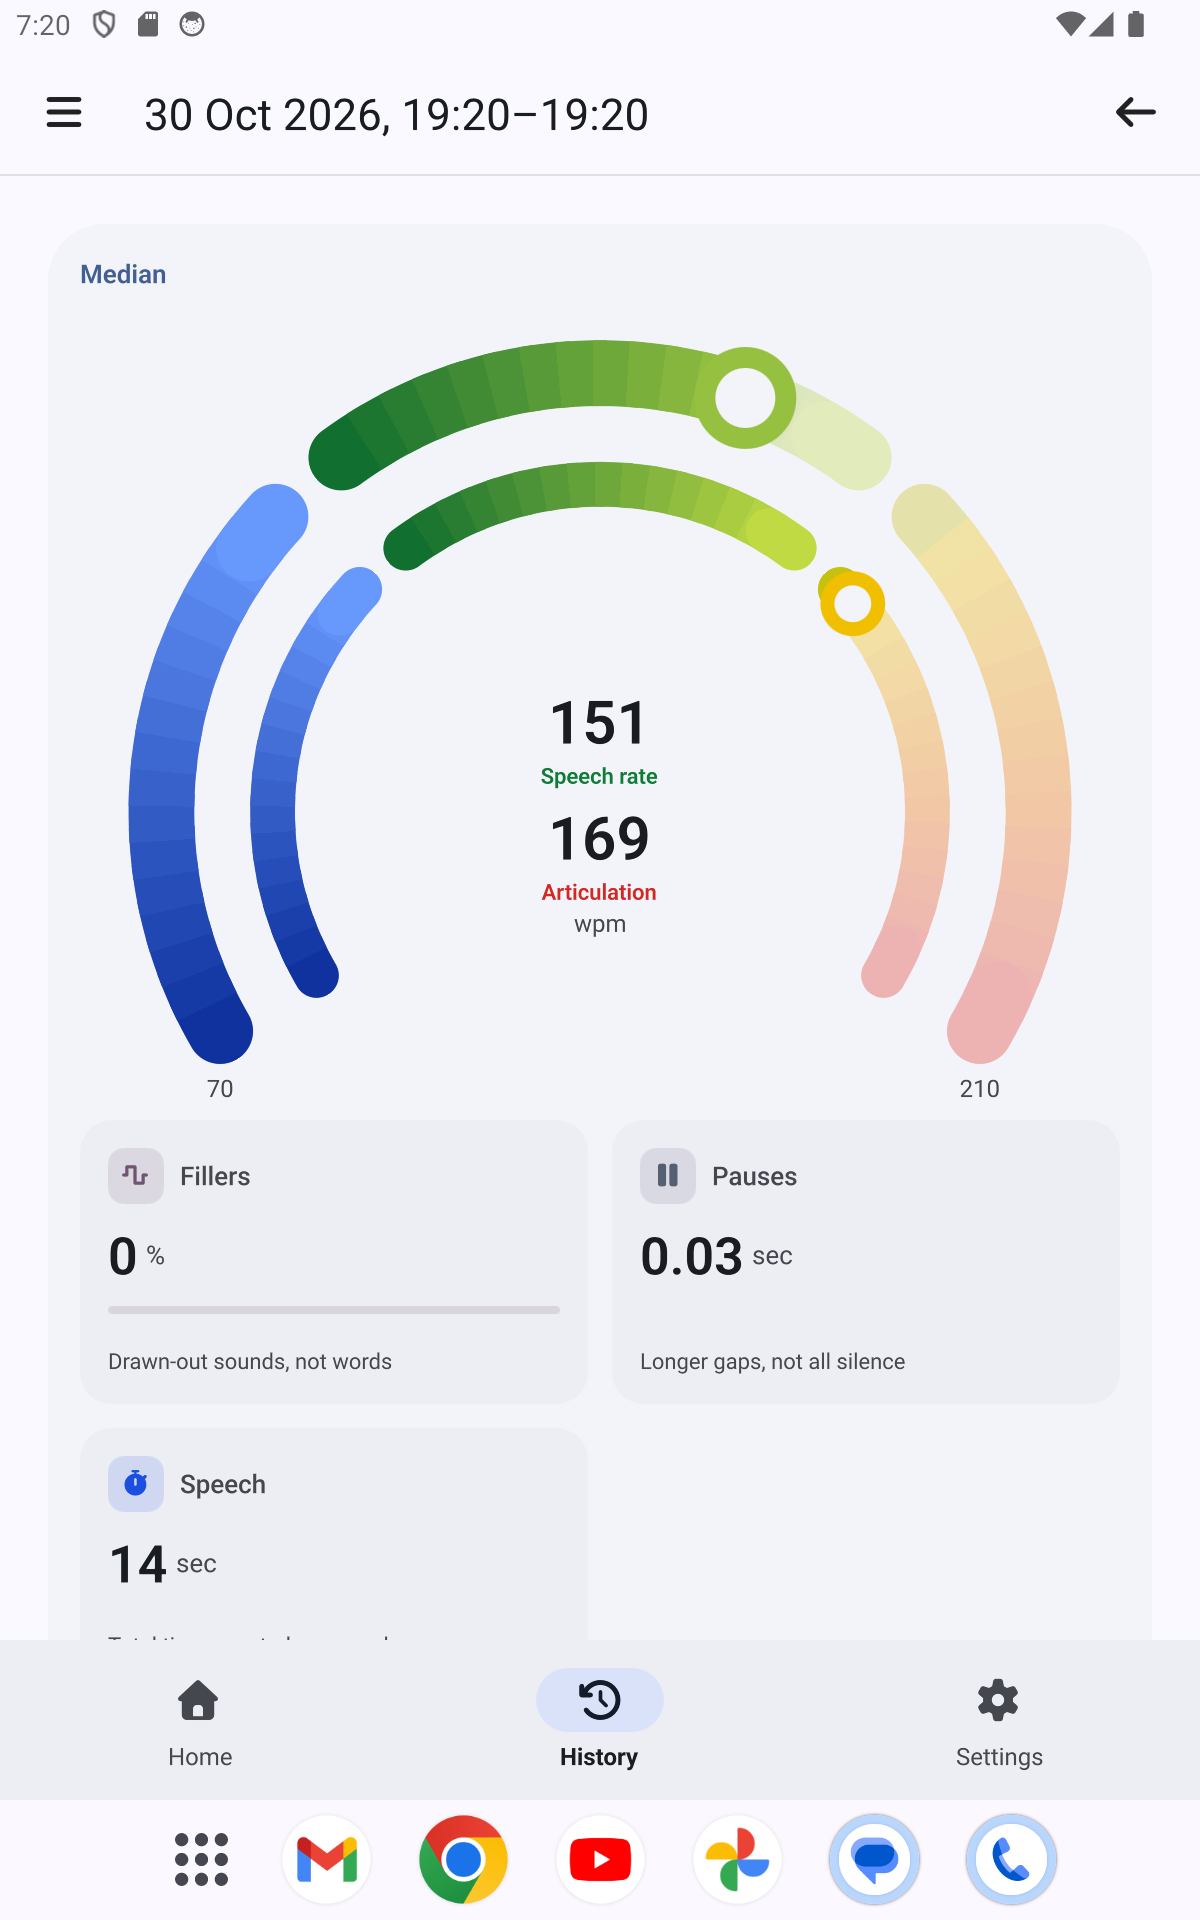
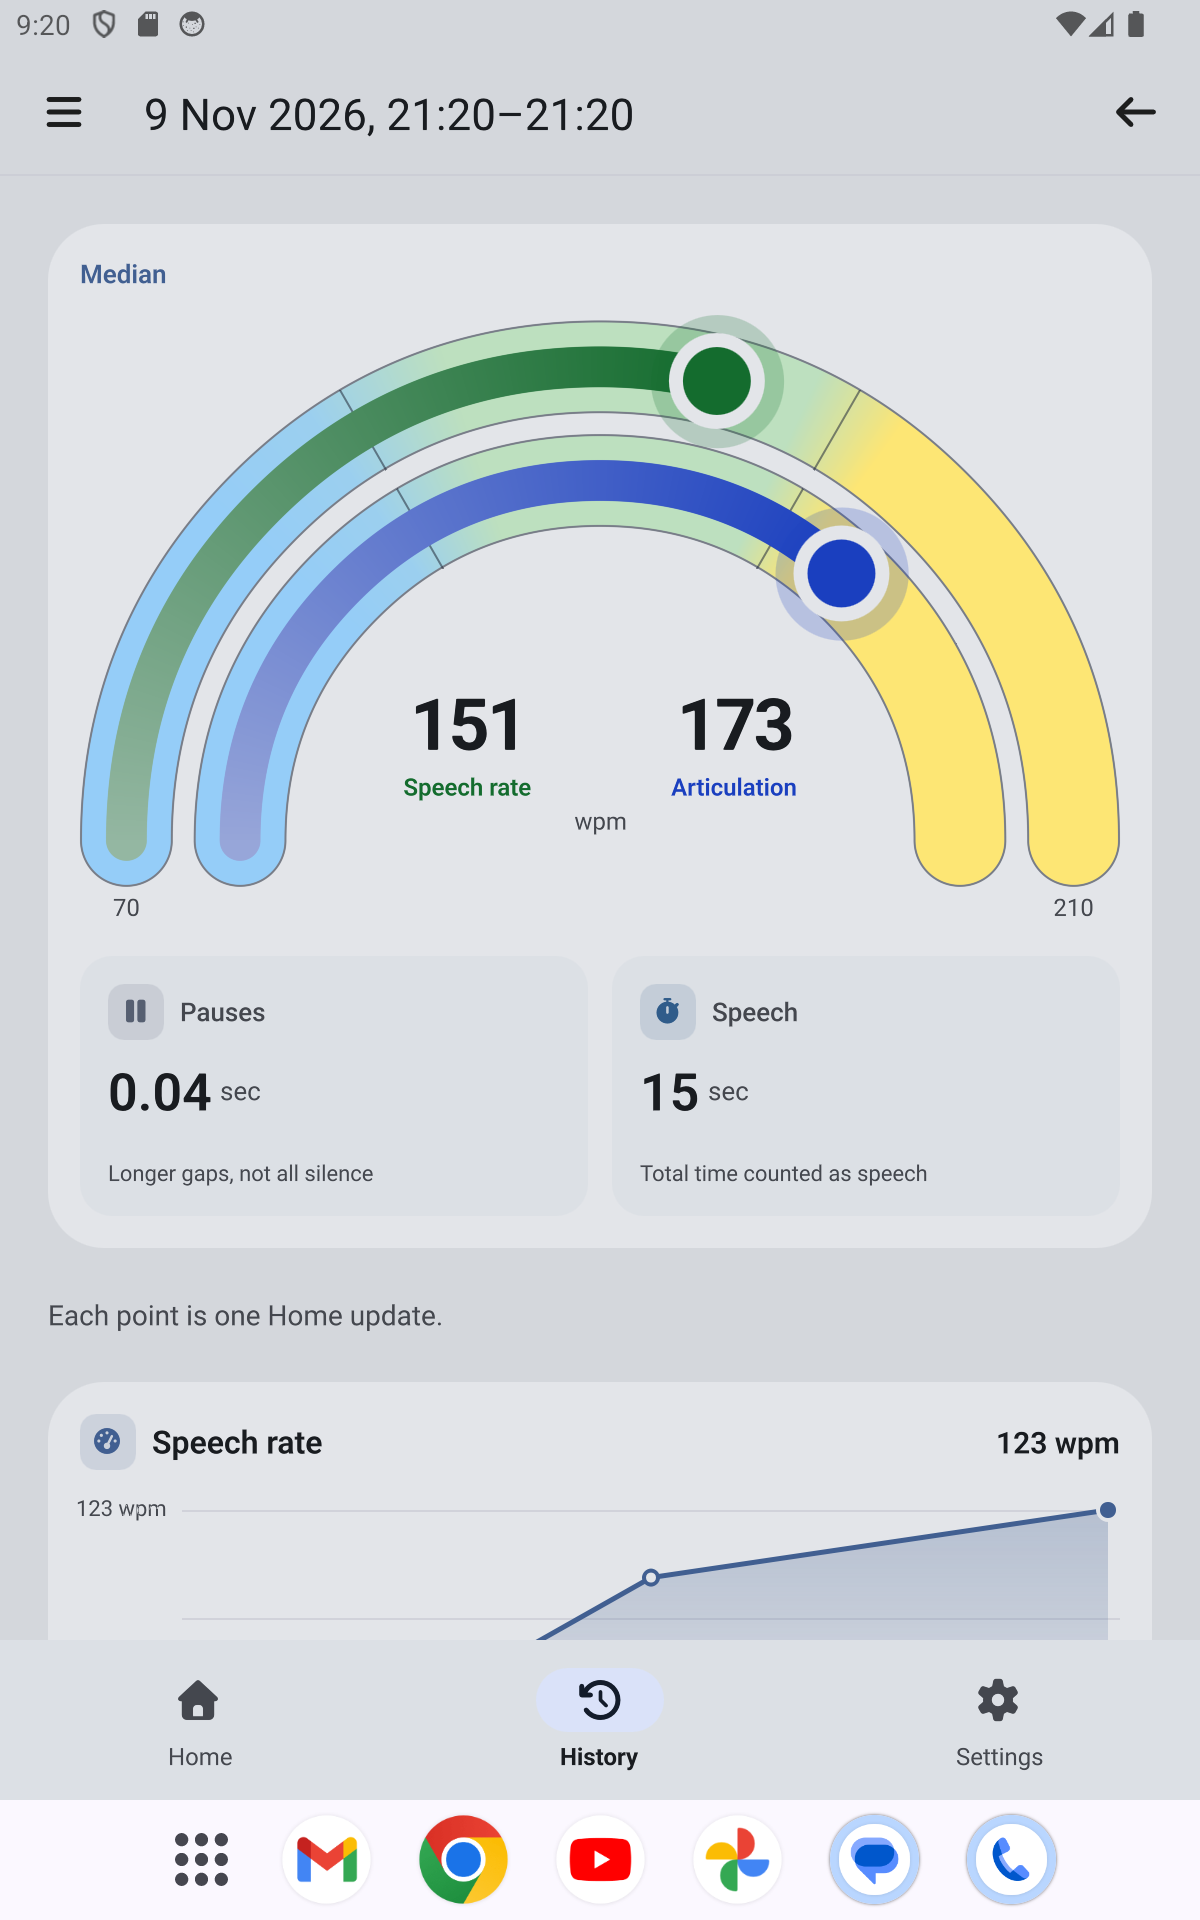
Improve gauge layout and user guide rendering; refresh store screenshots

diff --git a/ui/pages/UserGuidePage.qml b/ui/pages/UserGuidePage.qml
@@ -28,6 +28,35 @@ Page {
         guideText = text.length > 0
                 ? text
                 : qsTr("Unable to load the user guide.");
+        guideBlocks = splitBlocks(guideText);
+    }
+
+    property var guideBlocks: []
+
+    // Markdown Text renders images at natural size and applies lineHeight to
+    // them, so standalone image lines are pulled out and shown as Image items.
+    function splitBlocks(markdown) {
+        const blocks = [];
+        const imageLine = /^\s*!\[([^\]]*)\]\(([^)\s]+)\)\s*$/;
+        let buffer = [];
+        const flush = function () {
+            const chunk = buffer.join("\n").trim();
+            if (chunk.length > 0)
+                blocks.push({ kind: "text", text: chunk, source: "", alt: "" });
+            buffer = [];
+        };
+        const lines = markdown.split(/\r?\n/);
+        for (let i = 0; i < lines.length; ++i) {
+            const m = lines[i].match(imageLine);
+            if (m) {
+                flush();
+                blocks.push({ kind: "image", text: "", source: m[2], alt: m[1] });
+            } else {
+                buffer.push(lines[i]);
+            }
+        }
+        flush();
+        return blocks;
     }
 
     Material.theme: ApplicationWindow.window ? ApplicationWindow.window.theme : Material.Light
@@ -54,19 +83,56 @@ Page {
                                    ? ScrollBar.AlwaysOn : ScrollBar.AsNeeded
         ScrollBar.horizontal.policy: ScrollBar.AlwaysOff
 
-        Text {
+        Column {
             id: guideBody
             width: scrollView.availableWidth
             padding: AppScale.pagePadding
-            text: root.guideText
-            textFormat: Text.MarkdownText
-            // Image links in the guide are relative to docs/.
-            baseUrl: Qt.resolvedUrl("../../docs/")
-            wrapMode: Text.Wrap
-            color: Theme.onSurface(Material.theme)
-            linkColor: Theme.primary(Material.theme)
-            font.pixelSize: AppScale.fs(14)
-            lineHeight: 1.35
+            spacing: AppScale.fs(8)
+
+            readonly property real innerWidth: width - leftPadding - rightPadding
+
+            Repeater {
+                model: root.guideBlocks
+
+                delegate: Loader {
+                    id: blockLoader
+                    required property var modelData
+                    width: guideBody.innerWidth
+                    sourceComponent: modelData.kind === "image" ? imageBlock : textBlock
+
+                    Component {
+                        id: textBlock
+                        Text {
+                            width: blockLoader.width
+                            text: blockLoader.modelData.text
+                            textFormat: Text.MarkdownText
+                            baseUrl: Qt.resolvedUrl("../../docs/")
+                            wrapMode: Text.Wrap
+                            color: Theme.onSurface(Material.theme)
+                            linkColor: Theme.primary(Material.theme)
+                            font.pixelSize: AppScale.fs(14)
+                            lineHeight: 1.35
+                        }
+                    }
+
+                    Component {
+                        id: imageBlock
+                        Image {
+                            width: blockLoader.width
+                            height: sourceSize.width > 0
+                                    ? width * sourceSize.height / sourceSize.width
+                                    : 0
+                            // Image links in the guide are relative to docs/.
+                            source: Qt.resolvedUrl("../../docs/" + blockLoader.modelData.source)
+                            fillMode: Image.PreserveAspectFit
+                            asynchronous: true
+                            smooth: true
+                            mipmap: true
+                            Accessible.name: blockLoader.modelData.alt
+                        }
+                    }
+                }
+            }
         }
     }
 }

diff --git a/ui/components/SpeechRateGauge.qml b/ui/components/SpeechRateGauge.qml
@@ -123,13 +123,33 @@ Item {
         var r = Math.max(28, holeRadius)
         // "Articulation" / "Артикуляция" is the long caption.
         var byWidth = blockWidth / (12 * 0.56)
-        var byHeight = r / (dual ? 5.4 : 3.8)
-        return Math.max(8, Math.min(AppScale.fs(11), Math.floor(Math.min(byWidth, byHeight))))
+        var byHeight = r / (dual ? 4.8 : 3.4)
+        return Math.max(8, Math.min(AppScale.fs(12), Math.floor(Math.min(byWidth, byHeight))))
     }
+    readonly property real unitPx: Math.min(AppScale.fs(12), captionPx + 1)
+    // Text line height per pixel size, with headroom for platform fonts
+    // (Android's Roboto is taller than the desktop fallback).
+    readonly property real lineFactor: 1.2
+    // Gap between the unit line and the diameter of the semicircle.
+    readonly property real readoutBottomGap: 2
+    // Caption, unit and the column spacing: everything below the figures.
+    readonly property real readoutBaseHeight: (captionPx + unitPx) * lineFactor + 1
+    // The figures are the top row of the readout, where the disc is the
+    // narrowest. Pick the largest size whose outer edge still clears the
+    // innermost ring at that height. A three-digit bold figure is about
+    // 1.7 em wide.
     readonly property real numberPx: {
-        var unit = Math.min(AppScale.fs(11), captionPx + 1)
-        var room = holeRadius * 0.78 - captionPx - unit - (dual ? 10 : 6)
-        return Math.max(12, Math.min(dual ? 32 : 42, Math.floor(room)))
+        var r = Math.max(28, holeRadius)
+        var center = dual ? pairGap / 2 + blockWidth / 2 : 0
+        for (var px = dual ? 36 : 46; px > 12; --px) {
+            var top = readoutBottomGap + readoutBaseHeight + px * lineFactor
+            if (top >= r)
+                continue
+            var half = Math.sqrt(r * r - top * top)
+            if (center + px * 0.85 + 2 <= half)
+                return px
+        }
+        return 12
     }
 
     function captionInk(active, series) {
@@ -462,7 +482,7 @@ Item {
             // Sit on the open bottom of the semicircle. The diameter is the
             // lower edge of the arcs; a few pixels keep the unit above it.
             var ceiling = root.cy - root.holeRadius + 2
-            var floor = root.cy - 8 - height
+            var floor = root.cy - root.readoutBottomGap - height
             return Math.max(ceiling, floor)
         }
 
@@ -494,7 +514,7 @@ Item {
                 width: parent.width
                 horizontalAlignment: Text.AlignHCenter
                 text: root.unit
-                font.pixelSize: Math.min(AppScale.fs(11), root.captionPx + 1)
+                font.pixelSize: root.unitPx
                 color: Theme.onSurfaceVariant(root.paintTheme)
             }
         }
@@ -516,7 +536,7 @@ Item {
                 width: parent.width
                 horizontalAlignment: Text.AlignHCenter
                 text: root.unit
-                font.pixelSize: Math.min(AppScale.fs(11), root.captionPx + 1)
+                font.pixelSize: root.unitPx
                 color: Theme.onSurfaceVariant(root.paintTheme)
             }
         }
@@ -544,6 +564,7 @@ Item {
             Text {
                 anchors.verticalCenter: parent.verticalCenter
                 font.family: Icons.familySolid
+                font.weight: Font.Black
                 font.pixelSize: AppScale.fs(12)
                 text: Icons.faMicrophone
                 color: root.micShown > 0.04

diff --git a/ui/pages/HomePage.qml b/ui/pages/HomePage.qml
@@ -150,7 +150,7 @@ Page {
     readonly property real metricColumnWidth: wideLayout ? controlsColumnWidth
                                                : Math.max(1, sideColumn.implicitWidth)
     readonly property real gaugeCardWidth: wideLayout
-                                            ? Math.max(160, layoutWidth - metricColumnWidth)
+                                            ? Math.max(160, layoutWidth - metricColumnWidth - AppScale.pageSpacing)
                                             : Math.max(160, layoutWidth)
     // Card padding around the column that holds the chart and the arcs.
     readonly property real gaugeContentWidth: Math.max(140, gaugeCardWidth - 32)
@@ -706,7 +706,7 @@ Page {
                     id: gaugeCard
                     Layout.fillWidth: true
                     Layout.preferredWidth: root.wideLayout && sideColumn.visible
-                                            ? Math.max(1, root.layoutWidth - root.metricColumnWidth)
+                                            ? Math.max(1, root.gaugeCardWidth)
                                             : 1
                     Layout.fillHeight: root.cardFills
                     Layout.alignment: Qt.AlignTop
@@ -904,7 +904,7 @@ Page {
                                 width: parent.width
                                 horizontalAlignment: Text.AlignHCenter
                                 font.family: Icons.familySolid
-                                font.weight: Font.Normal
+                                font.weight: Font.Black
                                 font.pixelSize: AppScale.fs(18)
                                 text: Icons.faMicrophone
                                 color: Theme.primary(Material.theme)
